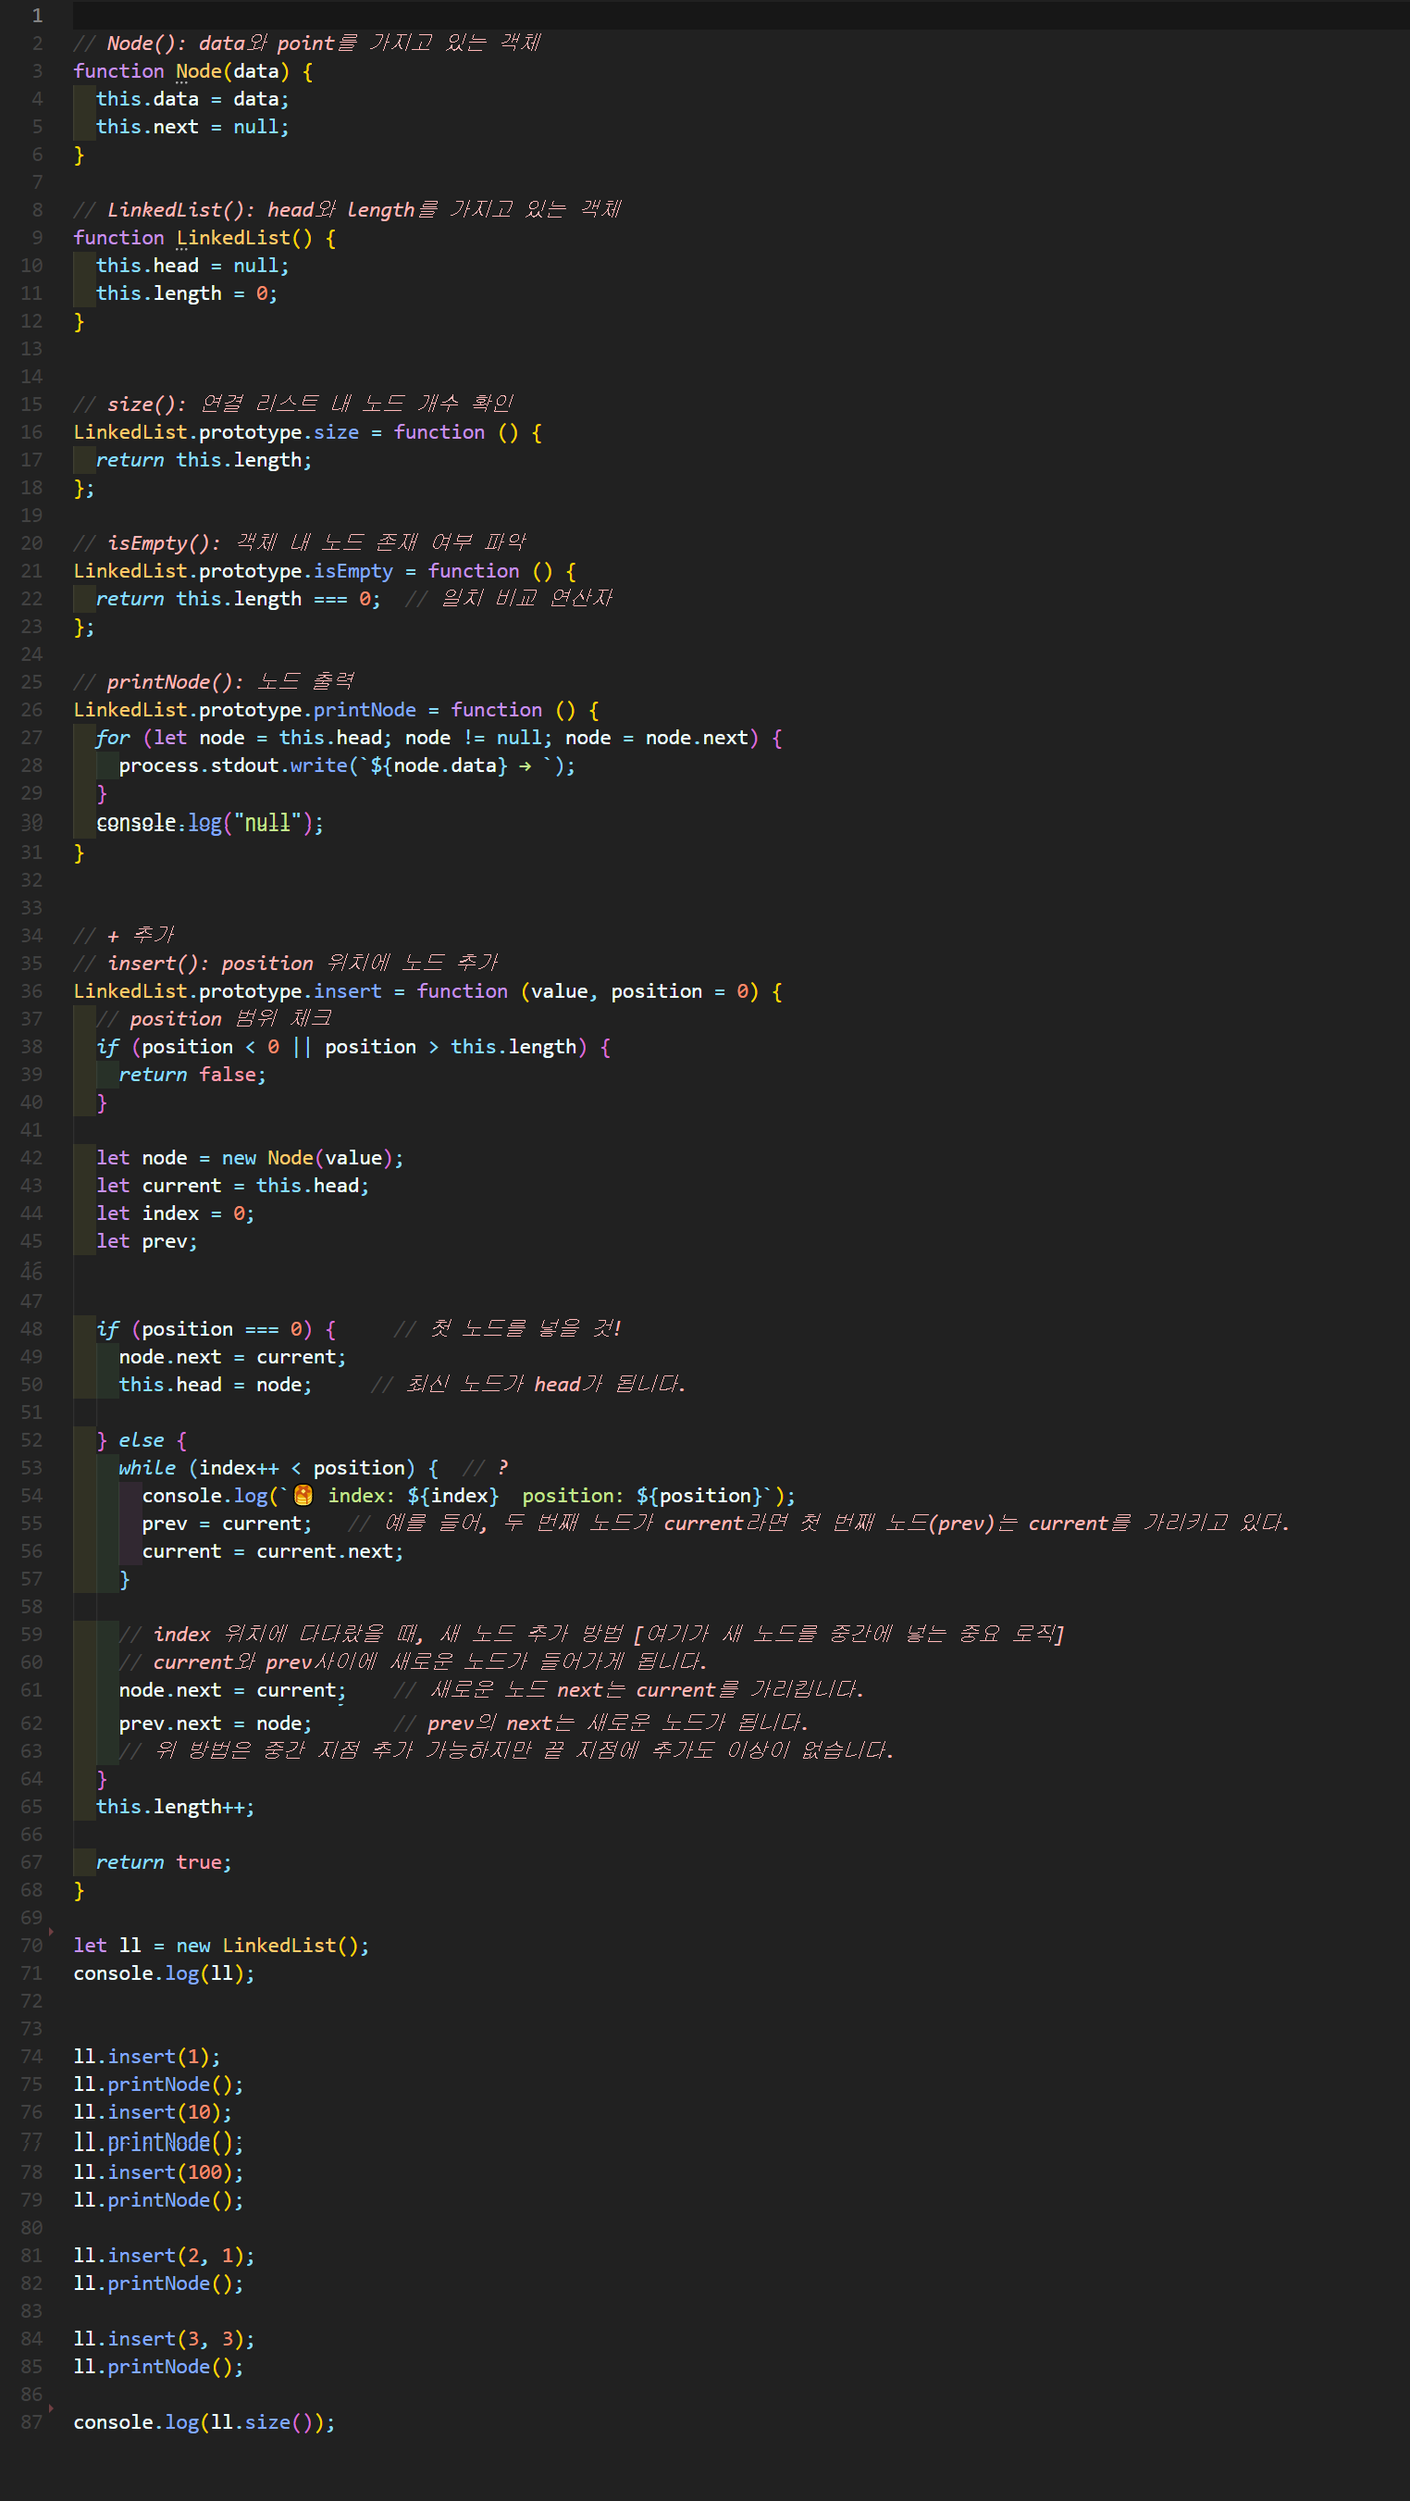
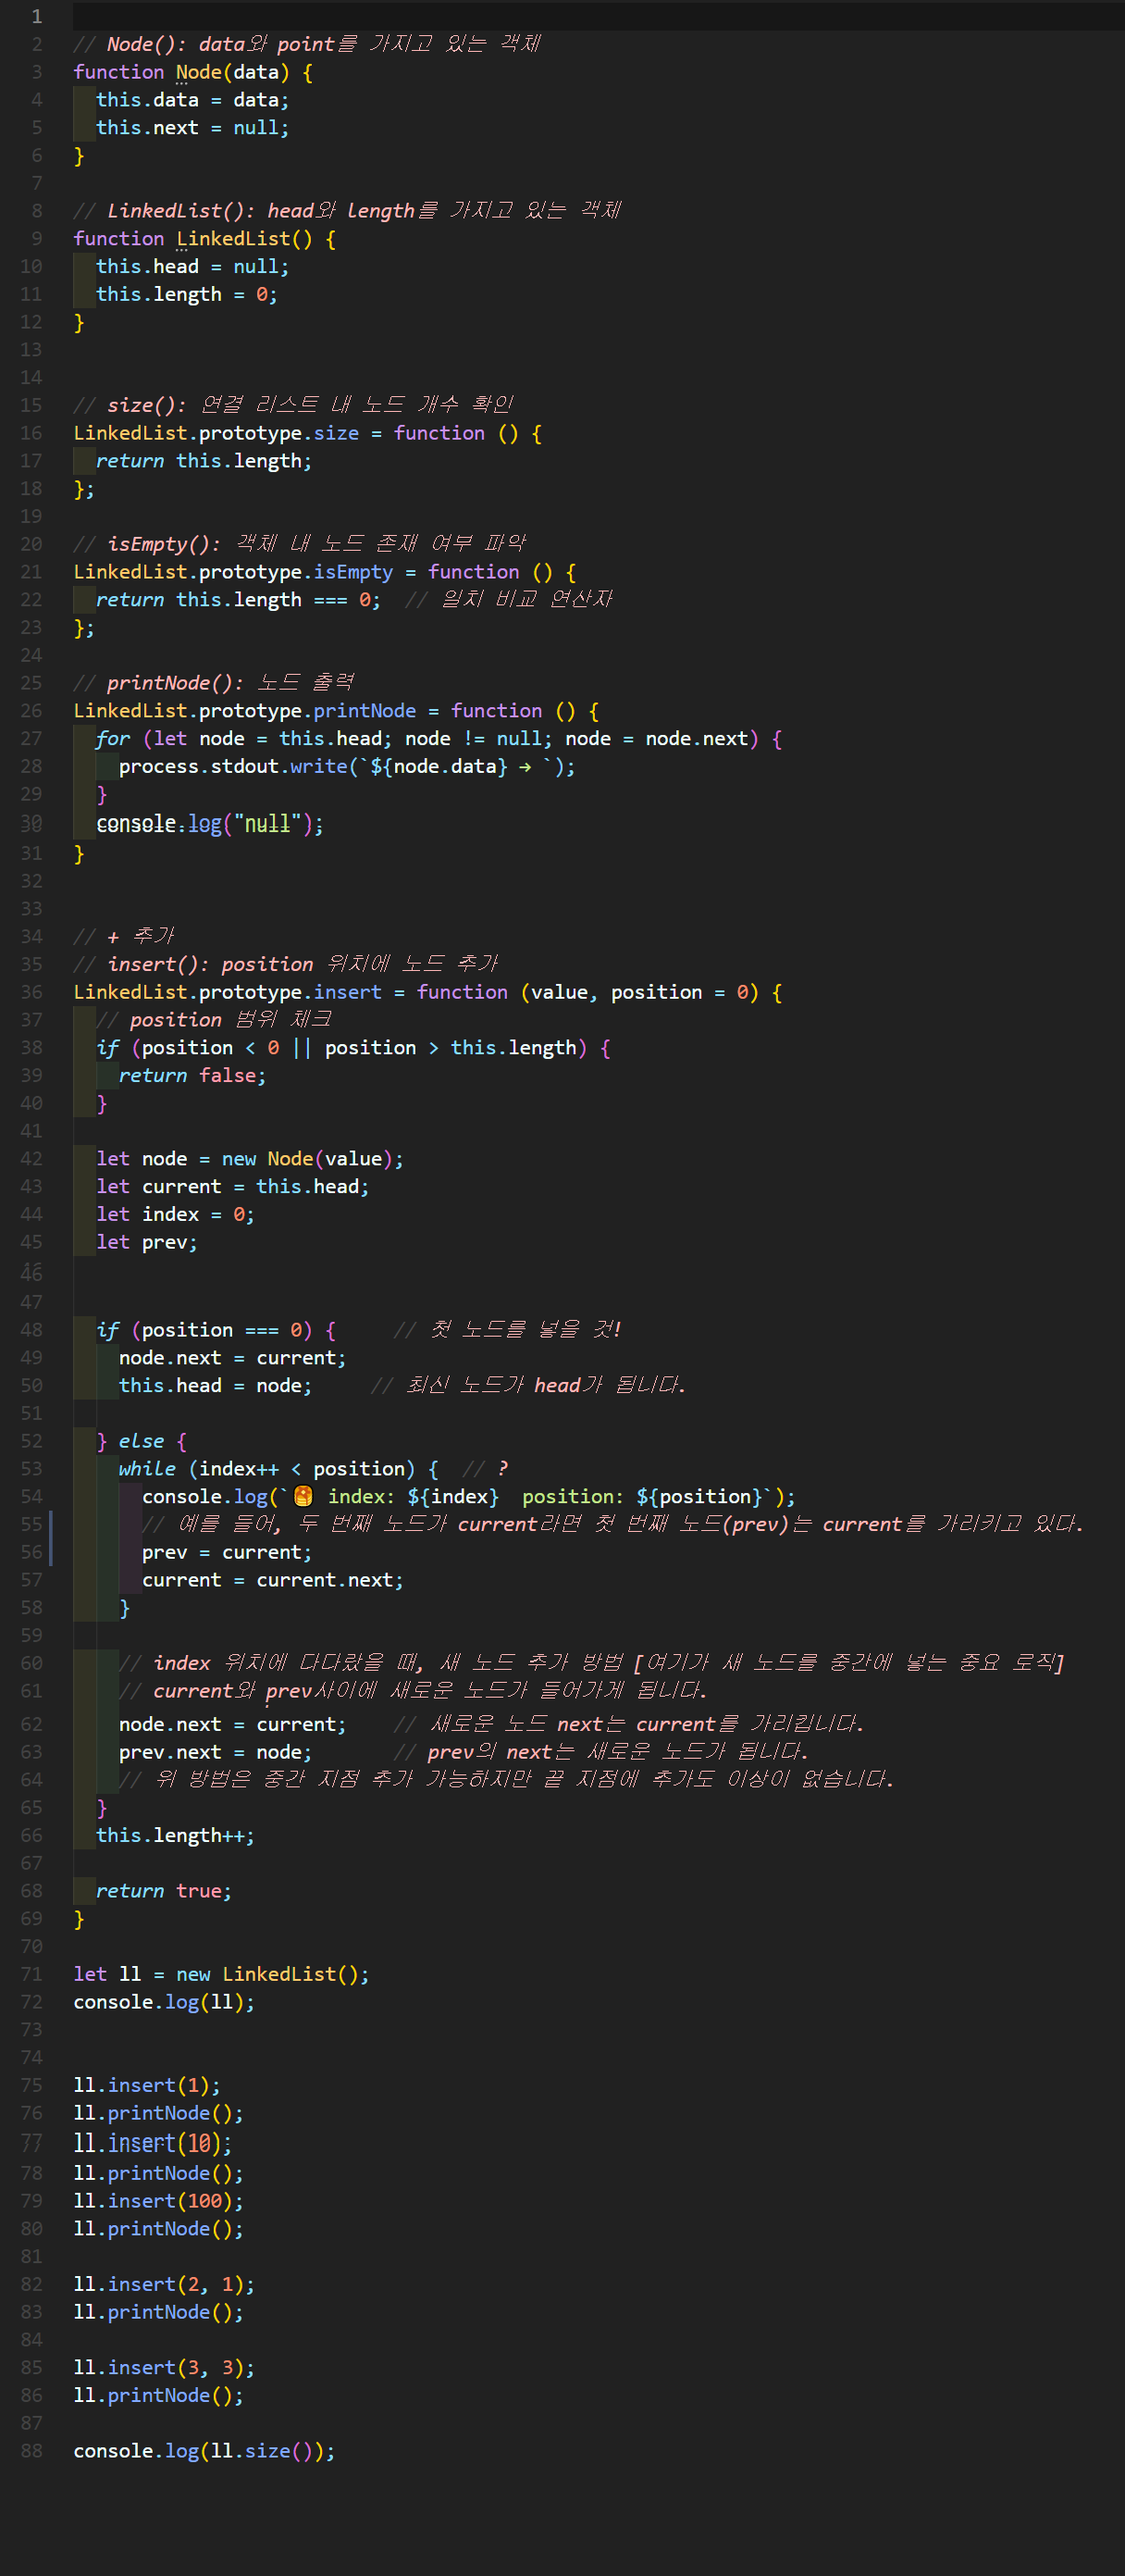
[new] 211008 TIL

diff --git a/Data_structure/Linked_list/linked_list_3.js b/Data_structure/Linked_list/linked_list_3.js
@@ -52,7 +52,8 @@ LinkedList.prototype.insert = function (value, position = 0) {
   } else {
     while (index++ < position) {  // ?
       console.log(`🥞 index: ${index}  position: ${position}`);
-      prev = current;   // 예를 들어, 두 번째 노드가 current라면 첫 번째 노드(prev)는 current를 가리키고 있다.
+      // 예를 들어, 두 번째 노드가 current라면 첫 번째 노드(prev)는 current를 가리키고 있다.
+      prev = current;
       current = current.next;
     }
 

diff --git a/Data_structure/Linked_list/링크드리스트.md b/Data_structure/Linked_list/링크드리스트.md
@@ -126,7 +126,7 @@ null
 
 ### 🍒 풀이
 
-![](./images/6.png)
+![](./images/review6.png)
 
 
 ### 🧪 실행결과
@@ -149,7 +149,3 @@ null
 10 → 3 → null
 2
 ```
-
-
-
-211008
